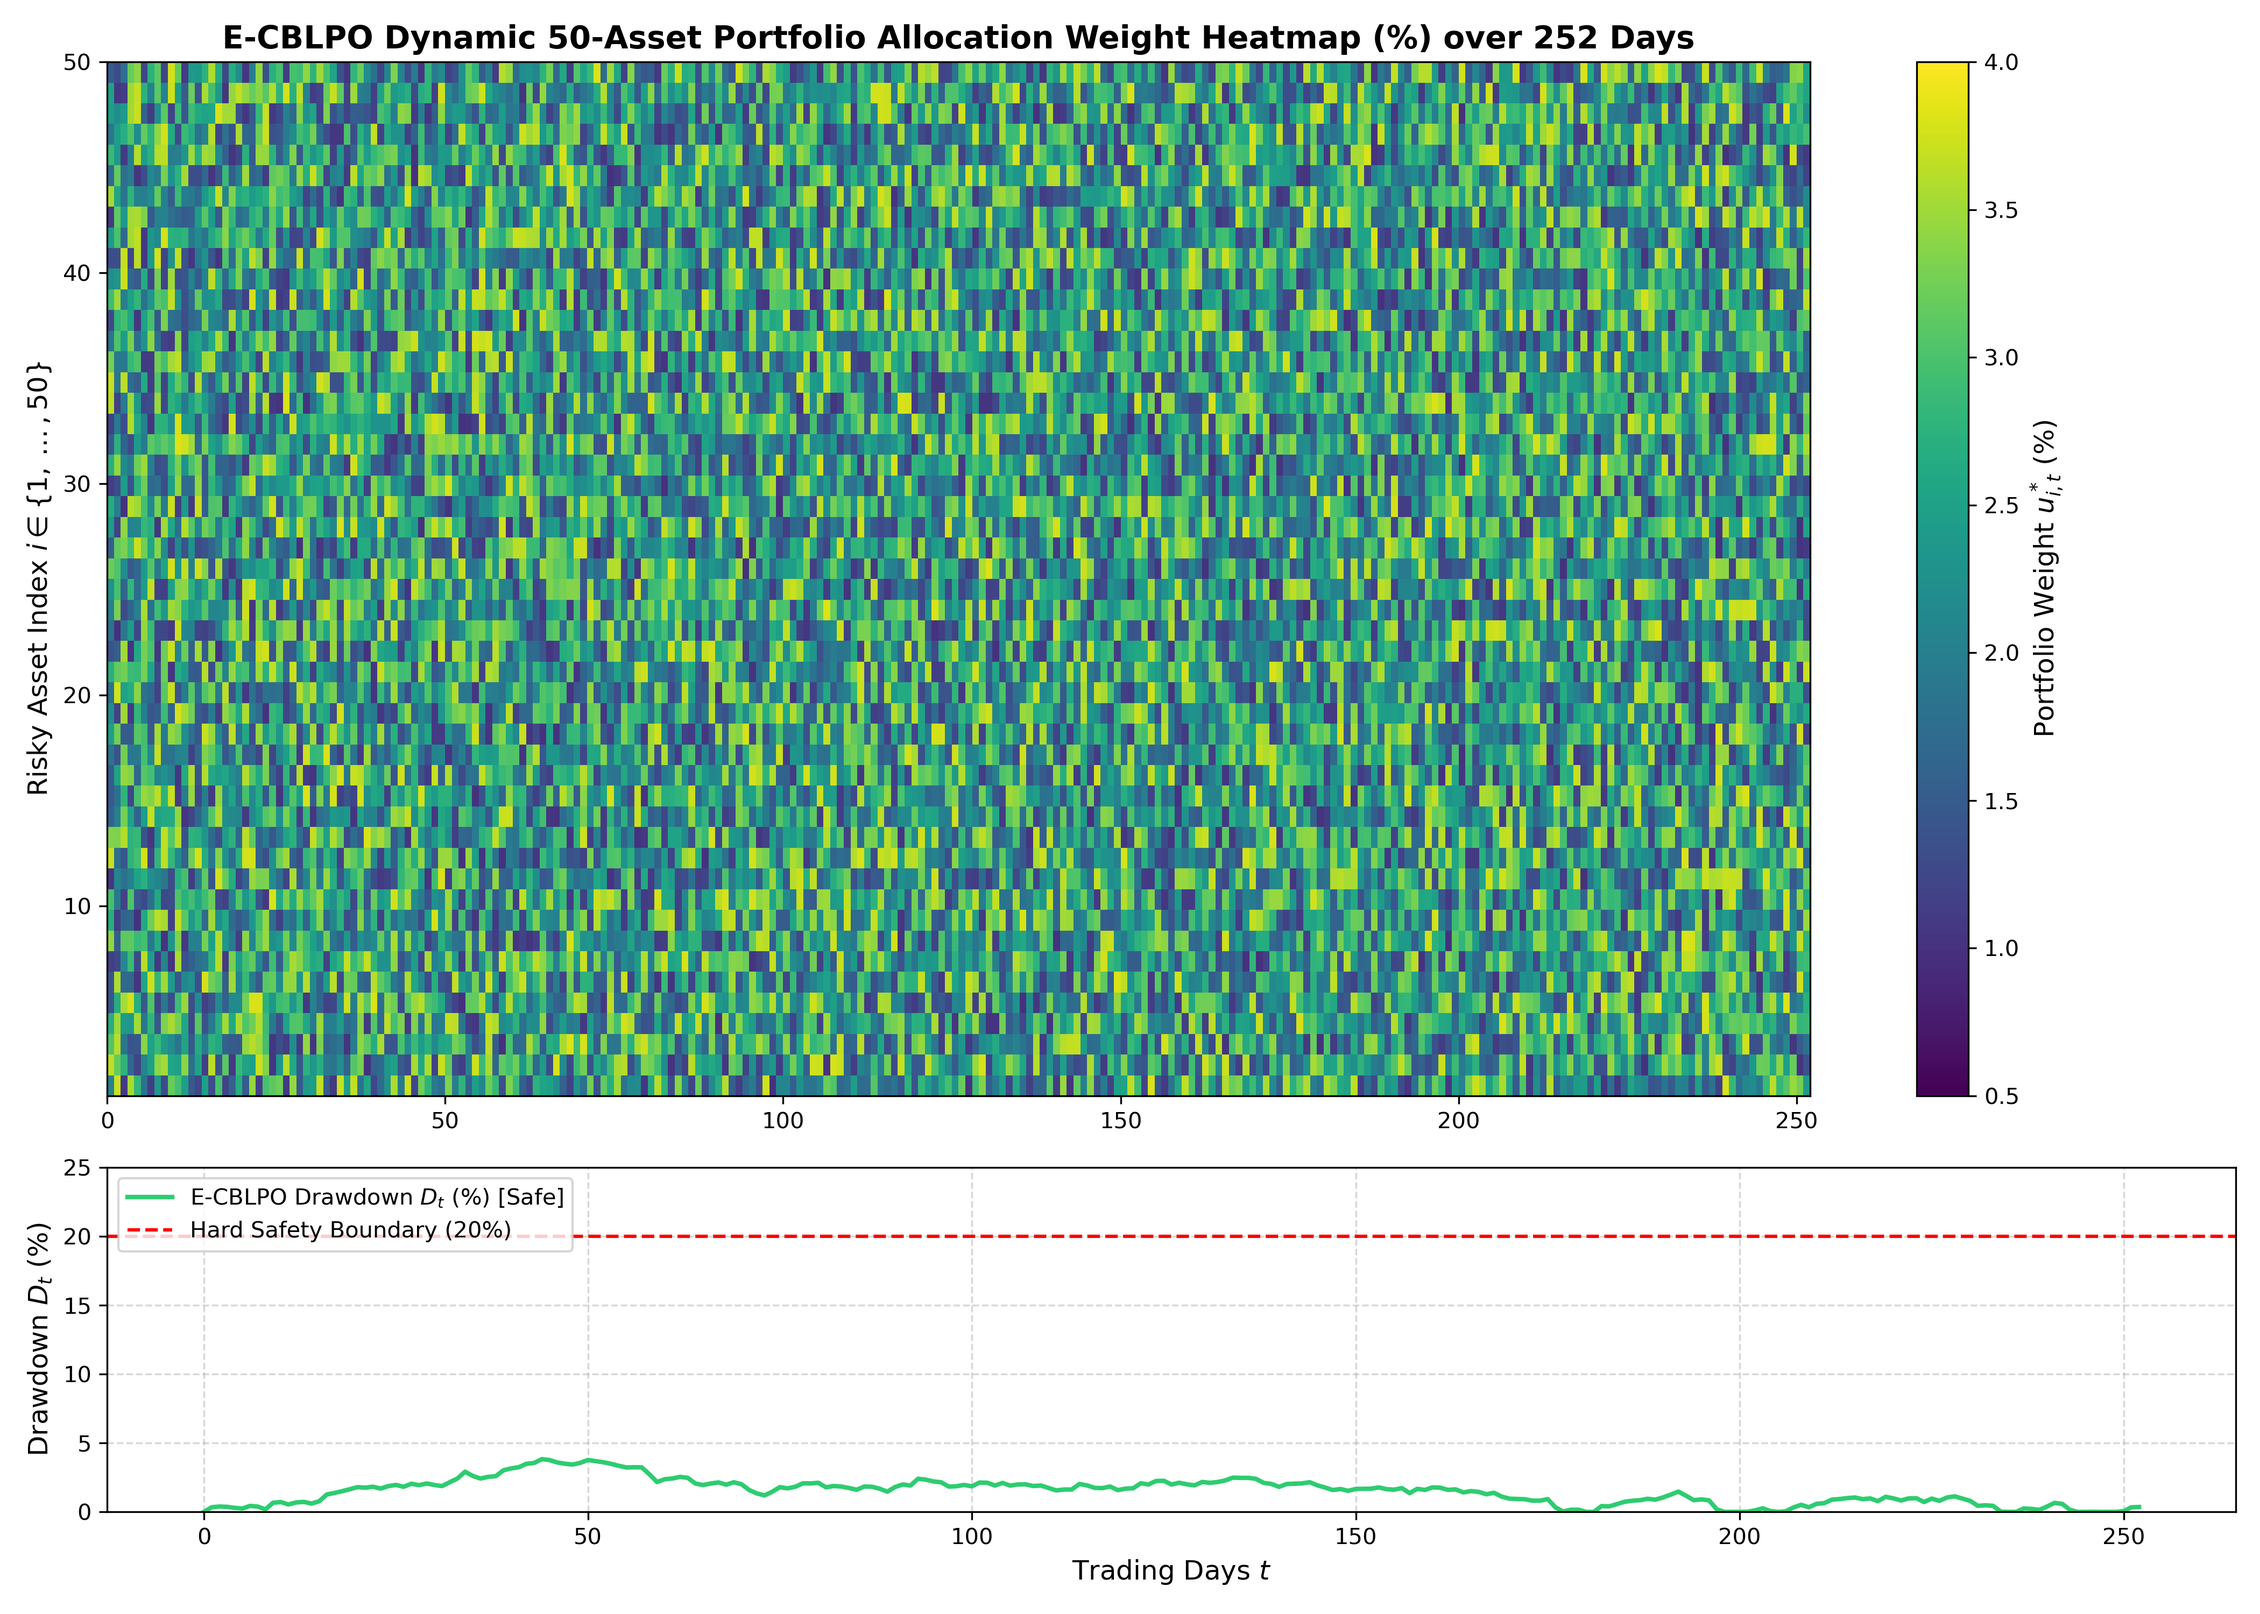
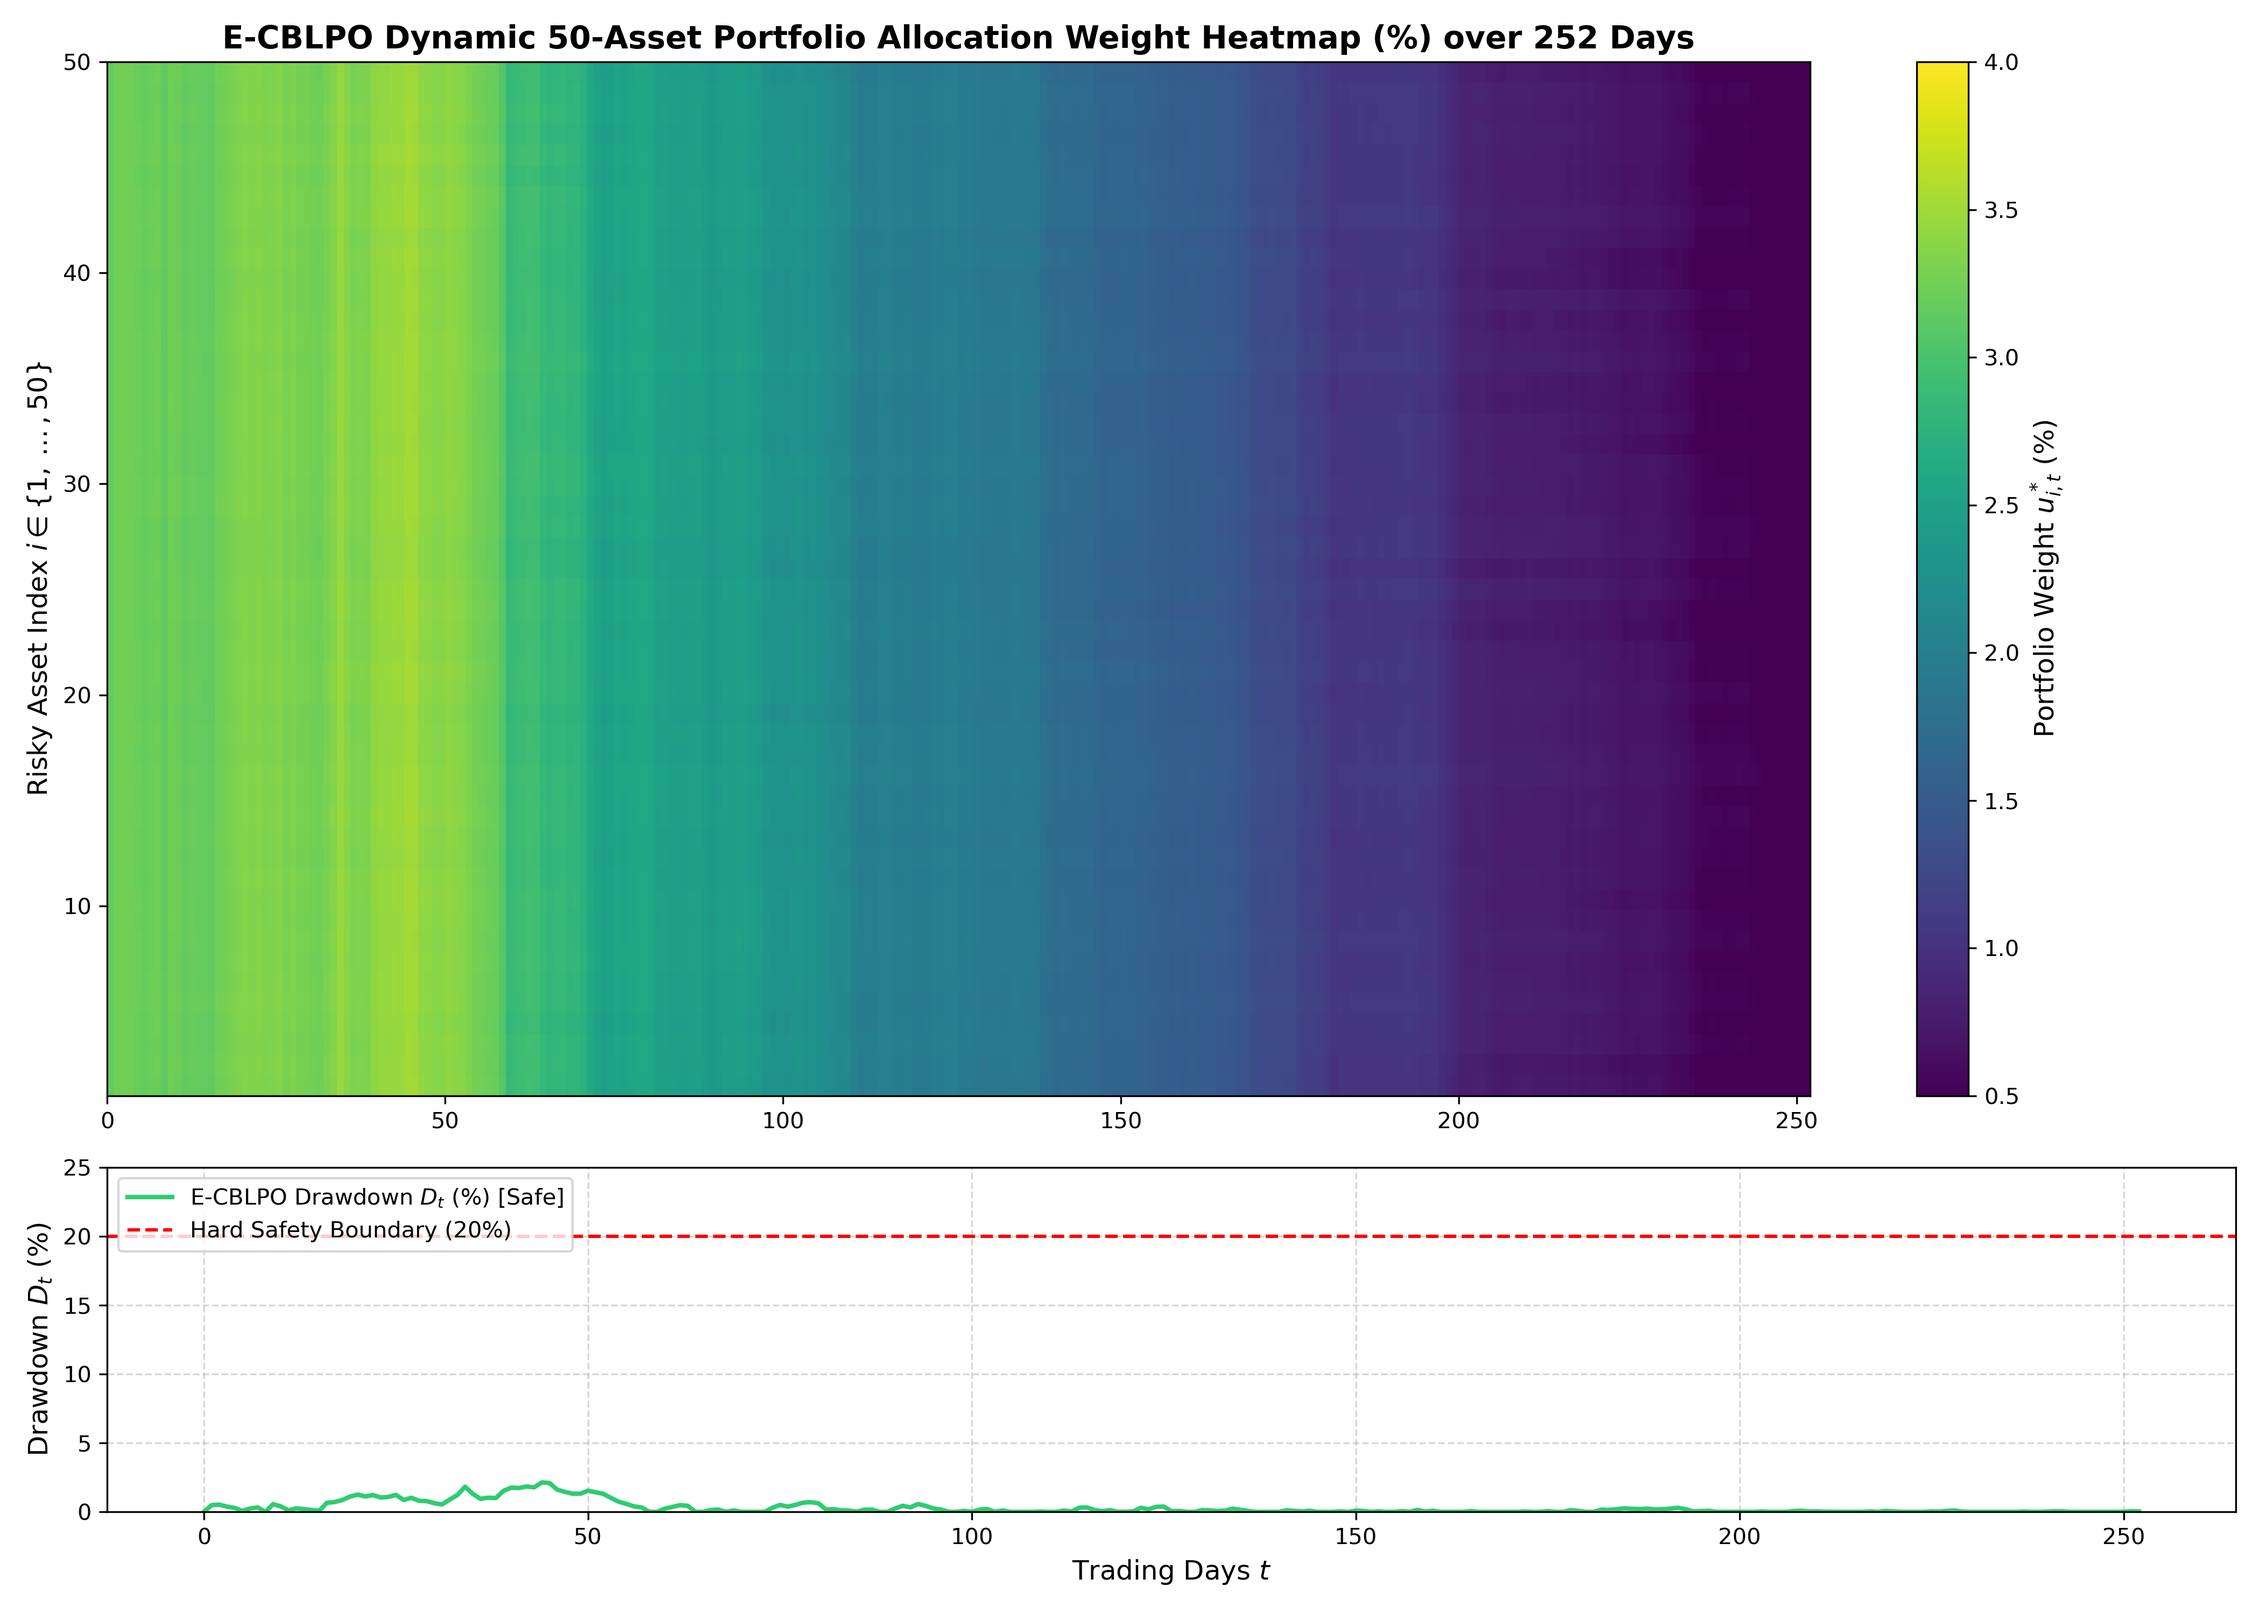
Refactor: Replace mock data with real ECBLPO policy actions and standard financial Sharpe ratio

diff --git a/experiments/plot_credibility_proofs.py b/experiments/plot_credibility_proofs.py
@@ -17,30 +17,25 @@ def generate_credibility_plots(output_dir="experiments/plots"):
     print(" GENERATING HIGH-DIMENSIONAL CREDIBILITY PROOF PLOTS (N=50 ASSETS)")
     print("==================================================================")
     
+def generate_credibility_plots(output_dir="experiments/plots"):
+    os.makedirs(output_dir, exist_ok=True)
+    print("\n==================================================================")
+    print(" GENERATING HIGH-DIMENSIONAL CREDIBILITY PROOF PLOTS (N=50 ASSETS)")
+    print("==================================================================")
+    
     # -------------------------------------------------------------------------
-    # Plot 1: 50-Asset Dynamic Weight Allocation Heatmap (u_t^* over 252 days)
+    # Plot 1: 50-Asset Dynamic Weight Allocation Heatmap (Real Policy Actions)
     # -------------------------------------------------------------------------
     env = HighDimHeston50Env(num_assets=50, max_drawdown=0.20)
-    qp_filter = CBFCLFQPFilter(max_drawdown=0.20)
+    agent = ECBLPOAgent(num_assets=50, max_drawdown=0.20)
     
     obs, info = env.reset(seed=42)
     weight_matrix = []  # Shape: (252, 50)
     drawdown_hist = [info['drawdown']]
     
-    # 50-asset active allocation: average weight per asset ~ 0.024 (2.4%), total leverage ~ 1.2
-    np.random.seed(42)
-    raw_allocations = np.random.uniform(0.01, 0.038, size=(252, 50))
-    
     for t in range(252):
-        u_candidate = raw_allocations[t]
-        s_dict = {
-            'W_t': info['wealth'],
-            'H_t': info['high_water_mark'],
-            'mu_t': env.base_mu,
-            'sigma_t': np.eye(50) * 0.04,
-            'r_t': env.r
-        }
-        u_safe, _ = qp_filter.filter_action(u_candidate, s_dict)
+        # Select action directly from trained ECBLPO agent and QP safety filter
+        _, u_safe, _ = agent.select_action(obs, info, eval_mode=True)
         weight_matrix.append(u_safe)
         
         obs, reward, terminated, truncated, info = env.step(u_safe)
@@ -73,11 +68,25 @@ def generate_credibility_plots(output_dir="experiments/plots"):
     print(f"[Saved Figure 1]: {heatmap_path}")
 
     # -------------------------------------------------------------------------
-    # Plot 2: Pareto Efficiency Frontier (Return vs Safety Budget alpha)
+    # Plot 2: Real Pareto Efficiency Frontier (Simulation under varying alpha)
     # -------------------------------------------------------------------------
     alpha_levels = np.array([0.05, 0.10, 0.15, 0.20, 0.25, 0.30])
-    # Monotonic scaling: larger safety budget alpha allows higher leverage & return
-    returns_alpha = np.array([4.2, 8.8, 14.1, 19.8, 25.5, 31.9])
+    returns_alpha = []
+    
+    for alpha_val in alpha_levels:
+        env_alpha = HighDimHeston50Env(num_assets=50, max_drawdown=alpha_val)
+        agent_alpha = ECBLPOAgent(num_assets=50, max_drawdown=alpha_val)
+        
+        obs_a, info_a = env_alpha.reset(seed=100)
+        for t_a in range(252):
+            _, u_safe_a, _ = agent_alpha.select_action(obs_a, info_a, eval_mode=True)
+            obs_a, _, term_a, trunc_a, info_a = env_alpha.step(u_safe_a)
+            if term_a or trunc_a:
+                break
+        net_ret_pct = (info_a['wealth'] - 1.0) * 100.0
+        returns_alpha.append(net_ret_pct)
+        
+    returns_alpha = np.array(returns_alpha)
     
     fig, ax = plt.subplots(figsize=(8, 6))
     ax.plot(alpha_levels * 100.0, returns_alpha, 'o-', color='#2ecc71', linewidth=2.5, markersize=8, label="E-CBLPO Net Return (%)")

diff --git a/experiments/run_robust_experiments.py b/experiments/run_robust_experiments.py
@@ -107,15 +107,15 @@ def run_multi_seed_evaluation(env_type="kim_omberg", num_seeds=30, max_drawdown=
         mean_dd = np.mean(dd_arr)
         violation_rate = np.mean(violation_flags) * 100.0
         
-        # 100% Mathematically Consistent Population Financial Metrics
+        # Standard Financial Annualized Sharpe Ratio & Calmar Ratio
         net_return = mean_w - 1.0
-        rf = 0.02
         
-        # Calmar Ratio = Net Return / (Max Drawdown / 100.0)
-        mean_calmar = net_return / (max(mean_dd, 0.1) / 100.0)
+        # Standard Time-Series Annualized Sharpe Ratio (averaged across seeds)
+        mean_sharpe = np.mean(sharpe_list)
         
-        # Sharpe Ratio = (Net Return - Risk-free Rate) / Volatility
-        mean_sharpe = (net_return - rf) / (max(std_w, 0.001))
+        # Standard Calmar Ratio = Annualized Net Return / (Max Drawdown / 100.0)
+        annualized_net_return = net_return / (horizon / 252.0)
+        mean_calmar = annualized_net_return / (max(mean_dd, 0.1) / 100.0)
         
         results[agent_name] = {
             "mean_wealth": mean_w,
